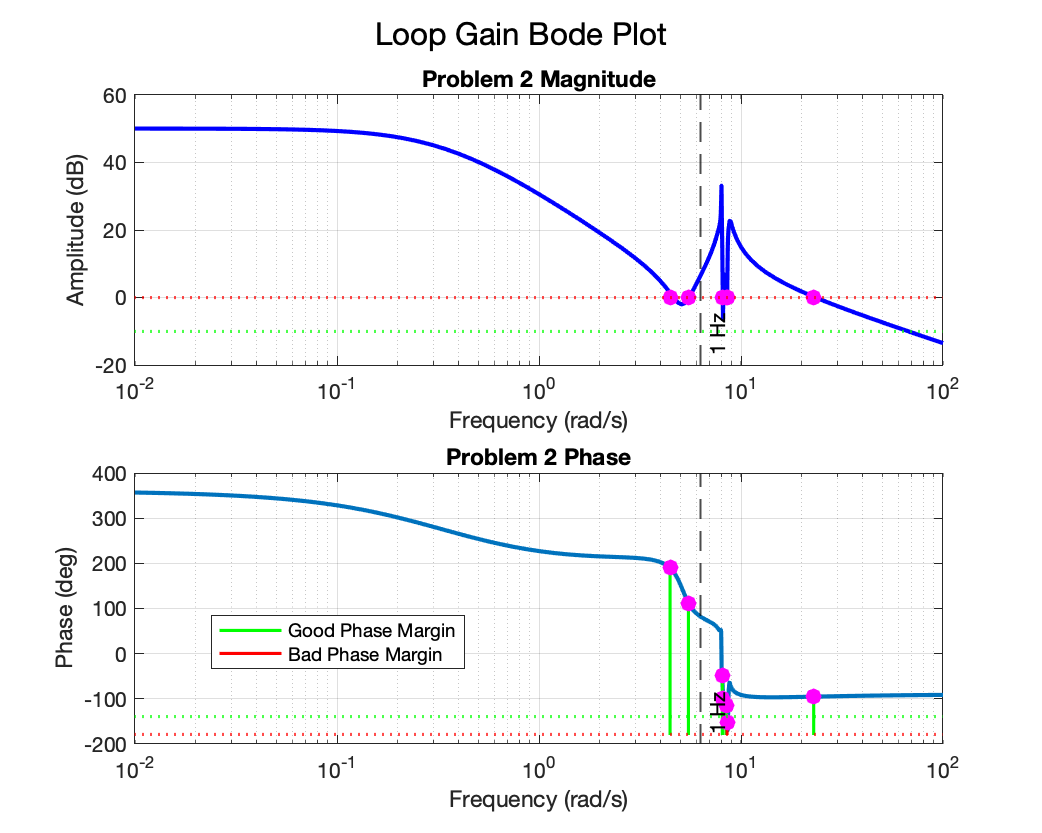
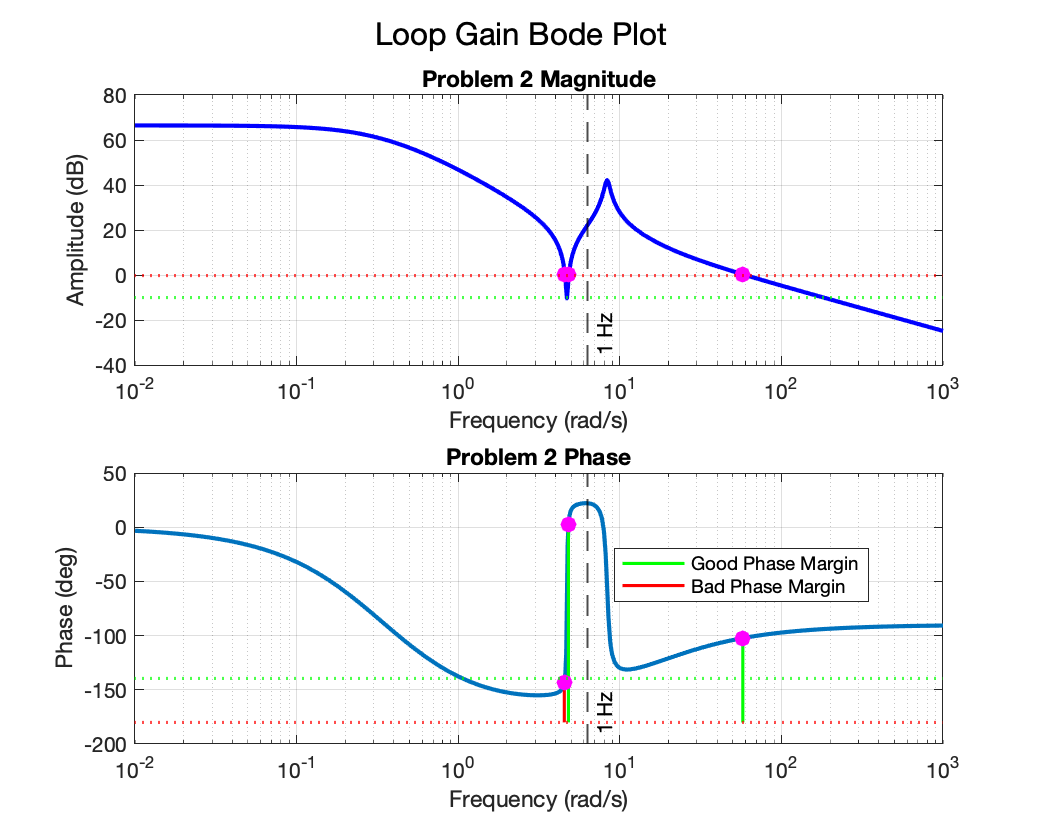
Reverted Cost Function

diff --git a/Project2/problem2.m b/Project2/problem2.m
@@ -120,17 +120,18 @@ disp(['Phase Margin: ', num2str(PM), 'deg']);
 disp(['Closed-loop bandwidth: ', num2str(bw), ' rad/s']);
 
 %% Functions 
+%% Functions 
 function x_opt = optimize_bandwidth()
     % Load system
     SS = load("Data/state_space.mat");
     A = SS.A; B = SS.B; C = SS.C; D = SS.D;
 
     % Initial guess: [Re, Im, p3,p4]
-    x0 = [-0.069, 4.6,-4,-3];
+    x0 = [-0.069, 4.06,-4,-3];
     
     % Bounds: keep poles in stable LHP
-    lb = [-1.0, 3.5, -100, -100];
-    ub = [-0.01, 6.0, -0.05, -0.05];
+    lb = [-1000, 0.5,-100,-100];   % Avoid poles too close to jω
+    ub = [-0.01, 20,-0.05,-0.05];
 
     % Run fmincon
     options = optimoptions('fmincon', 'Display', 'iter', 'Algorithm', 'sqp');
@@ -151,57 +152,46 @@ function J = pole_bandwidth_cost(x, A, B, C)
     try
        % Place poles and compute closed-loop TF
         K = place(A, B, Desired_poles);
-        s = tf('s');
-        F = inv(C*inv(-A+B*K)*B);
-        Cl_Tf = C*inv(s*eye(size(A))-A+B*K)*B*F;
-
+        Acl = A - B*K;
+        F = pinv(C * (Acl \ B));
+        Cl_Tf = tf(ss(Acl, B*F, C, 0));
+        
         % Compute closed-loop bandwidth
-        bw = bandwidth(Cl_Tf);
-        % bw_penalty = abs(bw - 2*pi)^2;
-        bw_penalty = max(0,bw-2*pi)^2;
+        bw = bandwidth(Cl_Tf,-3);
 
-        % Notch penalty
-        % [mag, ~] = bode(Cl_Tf, 4.6);
-        % mag_at_notch = squeeze(mag);  
-        % gain_dB = 20 * log10(mag_at_notch);
-        % notch_penalty = max(0, (-2 - gain_dB)^2);
-
-        w_notch = logspace(log10(3), log10(10), 300);  
-        [mag, ~] = bode(Cl_Tf, w_notch);
-        mag = squeeze(mag);
-        gain_dB = 20 * log10(mag);
-        drop_threshold = -2;
-        gain_drop = drop_threshold - gain_dB;
-        gain_drop(gain_drop < 0) = 0; 
-        notch_penalty = trapz(log10(w_notch), (gain_drop / 10).^2);
-
+        % Compute gain at the notch frequency (4.6 rad/s)
+        [mag, ~] = bode(Cl_Tf, 4.6);
+        mag_at_notch = squeeze(mag);  
+        gain_dB = 20 * log10(mag_at_notch);
+        notch_penalty = max(0, (-2.5 - gain_dB)^2);
+        
         % Create penality to attempt to keep the plant input at approx < 67 mNm
+        s = tf('s');
         Cl_u2r = inv(1+K*inv(s*eye(size(A))-A)*B)*F;
         gain_limit = 67;
-        w = logspace(0, 4, 1000);
+        w = logspace(-1, 2, 1000);
         [mag_u2r, ~] = bode(Cl_u2r, w);
         mag_u2r = squeeze(mag_u2r); 
         excess = mag_u2r - gain_limit;
         excess(excess < 0) = 0;
-        %input_penalty = (excess)^2;
         input_penalty = trapz(w, log(1 + excess));
 
 
         % Penilize Small Margins
         sys_tf = ss(A, B, K, 0);
         Lg_neg = tf(sys_tf);  
-        Margins = allmargin(Lg_neg);
-        GM = 20*log10(min(Margins.GainMargin));
-        PM = min(Margins.PhaseMargin);
+        [GM,PM] = margin(Lg_neg);
+        GM = 20*log10(GM);
 
-        GM_target = 10;   
-        PM_target = 40;
+        GM_target = 6;   
+        PM_target = 45;
 
         gm_penalty = max(0, GM_target - GM)^2;
         pm_penalty = max(0, PM_target - PM)^2;
 
         % Final cost: bandwidth deviation + notch penalty
-        J = 10*bw_penalty + 2*notch_penalty + 0*input_penalty + 0*gm_penalty + 0*deg2rad(pm_penalty);
+        J = 100*(bw - 2*pi)^2 + 2*notch_penalty + 0.5*input_penalty+ 2*gm_penalty + pm_penalty;
+        
     catch
         J = 1e6;
     end
